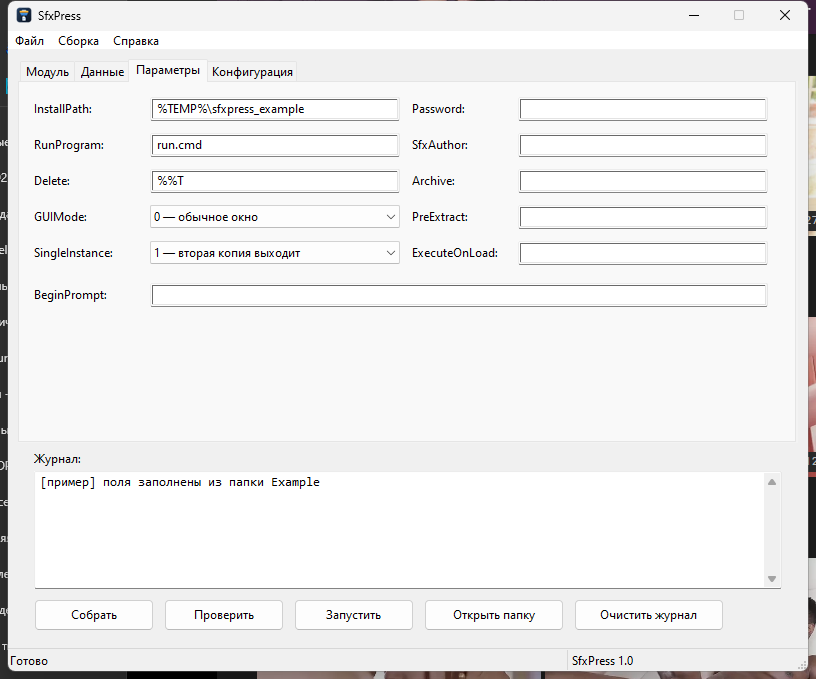
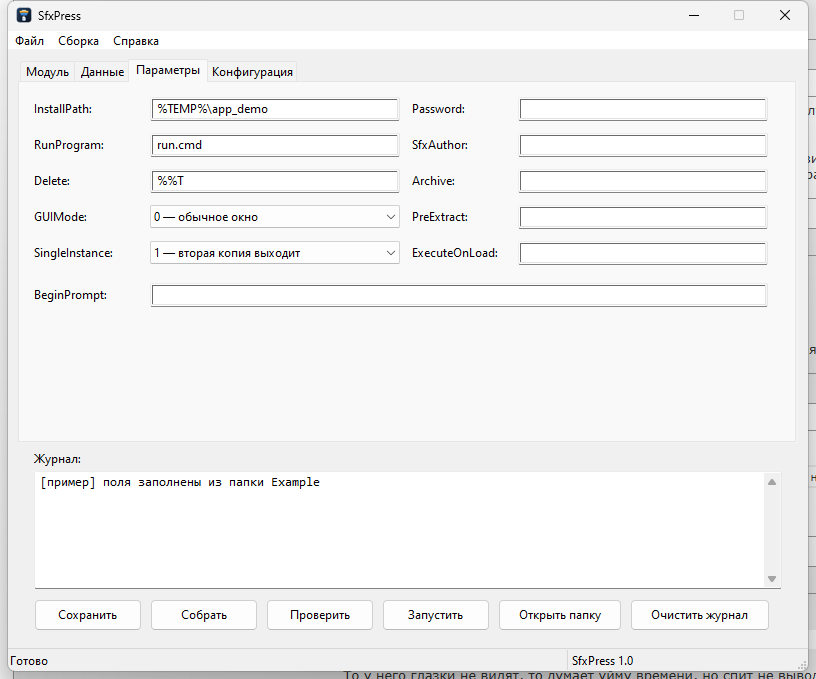
Сохранение конфига по кнопке Сохранить (все поля в загруженный ini)

diff --git a/src/main.cpp b/src/main.cpp
@@ -31,7 +31,7 @@ enum {
     ID_PASSWORD, ID_SFXAUTHOR, ID_ARCHIVE, ID_PREEXTRACT, ID_EXECUTEONLOAD,
     ID_BEGINPROMPT,
     ID_PAYLOAD_FOLDER_BROWSE,
-    ID_BUILD = 200, ID_VERIFY, ID_RUN, ID_OPENFOLDER, ID_LOG_CLEAR,
+    ID_BUILD = 200, ID_VERIFY, ID_RUN, ID_OPENFOLDER, ID_LOG_CLEAR, ID_SAVE_CFG,
     ID_FILE_EXIT = 300, ID_FILE_ABOUT, ID_FILE_SAVE, ID_FILE_LOAD,
     ID_HELP_APP = 310, ID_HELP_MODULE, ID_HELP_7ZIP
 };
@@ -755,23 +755,40 @@ static void LoadExample()
 }
 static void SaveLoadedConfig()
 {
-    if (g.cfgIni.empty()) return;
+    if (g.cfgIni.empty()) {
+        Log(L"[конфиг] не загружен: назначьте файл через «Загрузить профиль» или папку Example");
+        SetStatus(L"Конфиг не назначен");
+        return;
+    }
     auto kv = [&](const wchar_t* k, HWND h) {
         WritePrivateProfileStringW(L"sfx", k, GetText(h).c_str(), g.cfgIni.c_str());
     };
+    auto kvp = [&](const wchar_t* k, HWND h) {
+        WritePrivateProfileStringW(L"sfx", k, ToPortablePath(GetText(h)).c_str(), g.cfgIni.c_str());
+    };
     wchar_t num[16];
-    kv(L"installpath", g.hInstallPath);
-    kv(L"runprogram", g.hRunProgram);
-    kv(L"delete", g.hDelete);
+    kv(L"moddir", g.hModDir);
     swprintf(num, 16, L"%d", (int)SendMessageW(g.hMethod, CB_GETCURSEL, 0, 0));
     WritePrivateProfileStringW(L"sfx", L"method", num, g.cfgIni.c_str());
     swprintf(num, 16, L"%d", (int)(SendMessageW(g.hX64, BM_GETCHECK, 0, 0) == BST_CHECKED));
     WritePrivateProfileStringW(L"sfx", L"x64", num, g.cfgIni.c_str());
+    kvp(L"payload", g.hPayload);
+    kvp(L"out", g.hOut);
+    kv(L"installpath", g.hInstallPath);
+    kv(L"runprogram", g.hRunProgram);
+    kv(L"delete", g.hDelete);
+    kv(L"password", g.hPassword);
+    kv(L"sfxauthor", g.hSfxAuthor);
+    kv(L"archive", g.hArchive);
+    kv(L"preextract", g.hPreExtract);
+    kv(L"executeonload", g.hExecuteOnLoad);
+    kv(L"beginprompt", g.hBeginPrompt);
     swprintf(num, 16, L"%d", ComboValue(g.hGuiMode));
     WritePrivateProfileStringW(L"sfx", L"guimode", num, g.cfgIni.c_str());
     swprintf(num, 16, L"%d", ComboValue(g.hSingleInstance));
     WritePrivateProfileStringW(L"sfx", L"singleinstance", num, g.cfgIni.c_str());
-    Log(L"[сохранено] параметры в " + g.cfgIni);
+    Log(L"[конфиг] сохранён: " + g.cfgIni);
+    SetStatus(L"Конфиг сохранён");
 }
 static void CreateUi(HWND hWnd)
 {
@@ -876,11 +893,12 @@ static void CreateUi(HWND hWnd)
     SetWindowLongPtrW(g.hLog, GWLP_USERDATA, -1);
     g.ctls.push_back(g.hLog);
 
-    Button(L"Собрать", 26, 548, 120, 32, ID_BUILD, -1);
-    Button(L"Проверить", 156, 548, 120, 32, ID_VERIFY, -1);
-    Button(L"Запустить", 286, 548, 120, 32, ID_RUN, -1);
-    Button(L"Открыть папку", 416, 548, 140, 32, ID_OPENFOLDER, -1);
-    Button(L"Очистить журнал", 566, 548, 150, 32, ID_LOG_CLEAR, -1);
+    Button(L"Сохранить", 26, 548, 108, 32, ID_SAVE_CFG, -1);
+    Button(L"Собрать", 142, 548, 108, 32, ID_BUILD, -1);
+    Button(L"Проверить", 258, 548, 108, 32, ID_VERIFY, -1);
+    Button(L"Запустить", 374, 548, 108, 32, ID_RUN, -1);
+    Button(L"Открыть папку", 490, 548, 124, 32, ID_OPENFOLDER, -1);
+    Button(L"Очистить журнал", 622, 548, 140, 32, ID_LOG_CLEAR, -1);
 
     g.hStatus = CreateWindowExW(0, STATUSCLASSNAMEW, L"",
                                 WS_CHILD | WS_VISIBLE | SBARS_SIZEGRIP,
@@ -1002,6 +1020,7 @@ static void LoadProfile()
 
     UpdateModuleInfo();
     RefreshConfigView();
+    g.cfgIni = path;
     Log(L"[профиль] загружен: " + path);
 }
 
@@ -1040,6 +1059,7 @@ static LRESULT CALLBACK WndProc(HWND hWnd, UINT msg, WPARAM wParam, LPARAM lPara
         int code = HIWORD(wParam);
         switch (id) {
         case ID_BUILD: DoBuild(false); return 0;
+        case ID_SAVE_CFG: SaveLoadedConfig(); return 0;
         case ID_VERIFY: {
             DoBuild(false);
             std::wstring out = ResolvePath(GetText(g.hOut));
@@ -1089,7 +1109,6 @@ static LRESULT CALLBACK WndProc(HWND hWnd, UINT msg, WPARAM wParam, LPARAM lPara
             if (code == CBN_SELCHANGE || code == BN_CLICKED) {
                 UpdateModuleInfo();
                 if (g.page == PAGE_CONFIG) RefreshConfigView();
-                SaveLoadedConfig();
             }
             return 0;
         case ID_PAYLOAD_BROWSE: {
@@ -1131,7 +1150,6 @@ static LRESULT CALLBACK WndProc(HWND hWnd, UINT msg, WPARAM wParam, LPARAM lPara
         case ID_DELETE:
             if (code == EN_CHANGE) {
                 if (g.page == PAGE_CONFIG) RefreshConfigView();
-                SaveLoadedConfig();
             }
             return 0;
         case ID_PASSWORD:
